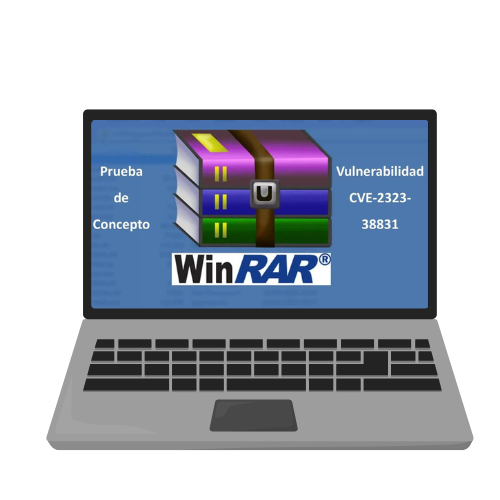
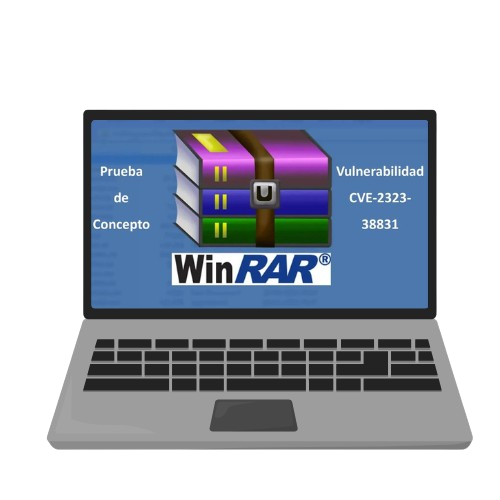
ajustando imagenes

Changed region(s): [[0.42, 0.39, 0.48, 0.42], [0.42, 0.33, 0.45, 0.36], [0.39, 0.27, 0.42, 0.3]]

diff --git a/Python/Proyectos/Framework/App/assets/styles.css b/Python/Proyectos/Framework/App/assets/styles.css
@@ -197,25 +197,11 @@ html {
 
 /* Efecto de card neon */
 .row{
-    /* --white: hsl(0, 0%, 100%);
-    --black: hsl(240, 15%, 9%);
-    --paragraph: hsl(0, 0%, 83%);
-    --line: hsl(240, 9%, 17%);
-    --primary: hsl(189, 92%, 58%); */
     position: relative;
-    /* background-color: hsla(240, 15%, 9%, 1);
-    background-image: radial-gradient(at 88% 40%,hsla(240, 15%, 9%, 1) 0px, transparent 85%),
-    radial-gradient(at 49% 30%, hsla(240, 15%, 9%, 1) 0px, transparent 85%),
-    radial-gradient(at 14% 26%, hsla(240, 15%, 9%, 1) 0px, transparent 85%),
-    radial-gradient(at 0% 64%, hsl(189, 99%, 26%) 0px, transparent 85%),
-    radial-gradient(at 41% 94%, hsl(189, 97%, 36%) 0px, transparent 85%),
-    radial-gradient(at 100% 99%, hsl(188, 94%, 13%) 0px, transparent 85%);
-    transition: 0.3s ease;*/
     border-radius: 1rem;
-    /*filter: drop-shadow(0px 0px 30px rgba(113, 169, 206, 0.1)); */
+    /*filter: drop-shadow(0px 0px 30px rgba(113, 169, 206, 0.1));*/
     align-content: center;
     text-align: center;
-    /* box-shadow: 0px -16px 24px 0px rgba(255, 255, 255, 0.25) inset; */
     display: flex;
     flex-direction: column;
     gap: 1rem;
@@ -240,113 +226,6 @@ html {
 .row:hover{
     filter: drop-shadow(0px 0px 20px rgba(184, 217, 230,0.5));
     cursor: pointer;
-}
-
-/* Efecto de laptop */
-.laptop {
-    transform: scale(0.9);
-}
-.screen {
-    border-radius: 20px;
-    box-shadow: inset 0 0 0 2px #c8cacb, inset 0 0 0 10px #000;
-    height: 220px;
-    width: 85%;
-    margin: 0 auto;
-    padding: 9px 9px 23px 9px;
-    position: relative;
-    display: flex;
-    align-items: center;
-    justify-content: center;
-    background-image: linear-gradient(15deg, #3f51b1 0%, #5a55ae 13%, #7b5fac 25%, #8f6aae 38%, #a86aa4 50%, #cc6b8e 62%, #f18271 75%, #f3a469 87%, #f7c978 100%);
-    transform-style: preserve-3d;
-    transform: perspective(1900px) rotateX(-88.5deg);
-    transform-origin: 50% 100%;
-    animation: open 4s infinite alternate;
-}
-@keyframes open {
-    0% {
-        transform: perspective(1900px) rotateX(-88.5deg);
-    }
-    100% {
-        transform: perspective(1000px) rotateX(0deg);
-    }
-}
-.screen::before {
-    content: '';
-    width: 95%;
-    height: 12px;
-    position: absolute;
-    background: linear-gradient(#979899, transparent);
-    top: -3px;
-    transform: rotateX(90deg);
-    border-radius: 5px 5px;
-}
-.contenido {
-    letter-spacing: 1px;
-    text-shadow: 0 0 5px #fff;
-}
-.header {
-    width: 100px;
-    height: 12px;
-    position: absolute;
-    background-color: #000;
-    top: 10px;
-    left: 50%;
-    transform: translate(-50%, -0%);
-    border-radius: 0 0 6px 6px;
-}
-.screen::after {
-    background: linear-gradient(to bottom, #272727, #0d0d0d);
-    border-radius: 0 0 20px 20px;
-    bottom: 2px;
-    content: "";
-    height: 24px;
-    left: 2px;
-    right: 2px;
-    position: absolute;
-    width: 98%;
-}
-.keyboard {
-    background: radial-gradient(circle at center, #e2e3e4 85%, #a9abac 100%);
-    border: solid #a0a3a7;
-    border-radius: 2px 2px 12px 12px;
-    border-width: 1px 2px 0 2px;
-    box-shadow: inset 0 -2px 8px 0 #6c7074;
-    height: 20px;
-    margin-top: -10px;
-    position: relative;
-    width: 100%;
-    z-index: 9;
-}
-.keyboard::after {
-    background: #e2e3e4;
-    border-radius: 0 0 10px 10px;
-    box-shadow: inset 0 0 4px 2px #babdbf;
-    content: "";
-    height: 10px;
-    left: 50%;
-    margin-left: -60px;
-    position: absolute;
-    top: 0;
-}
-.keyboard::before {
-    background: 0 0;
-    border-radius: 0 0 3px 3px;
-    bottom: -2px;
-    box-shadow: -270px 0 #272727, 250px 0 #272727;
-    content: "";
-    height: 2px;
-    left: 50%;
-    margin-left: -10px;
-    position: absolute;
-}
-.row:hover .screen {
-    animation-play-state: paused;
-}
-
-.img_rar {
-    height: 190px;
-    border-radius: 10px;
 }
 
 .titulo {

diff --git a/Python/Proyectos/Framework/App/App/vistas/Aportes/aportes.py b/Python/Proyectos/Framework/App/App/vistas/Aportes/aportes.py
@@ -128,24 +128,8 @@ def aportes() -> rx.Component:
                         size = "6",
                         class_name = "titulo"
                     ),
-                    rx.box(
-                        rx.box(
-                            rx.box(
-                                class_name = "header"
-                            ),
-                            rx.box(
-                                rx.image(
-                                    src = "cve-2323-38831.jpg",
-                                    class_name = "img_rar"
-                                ),
-                                class_name = "contenido"
-                            ),
-                            class_name = "screen"
-                        ),
-                        rx.box(
-                            class_name = "keyboard"
-                        ),
-                        class_name = "laptop"
+                    rx.image(
+                        src = "logros/poc.png"
                     )
                 ),   
                 href = "https://www.youtube.com/watch?v=LFzNChhzqns&t=6s",
